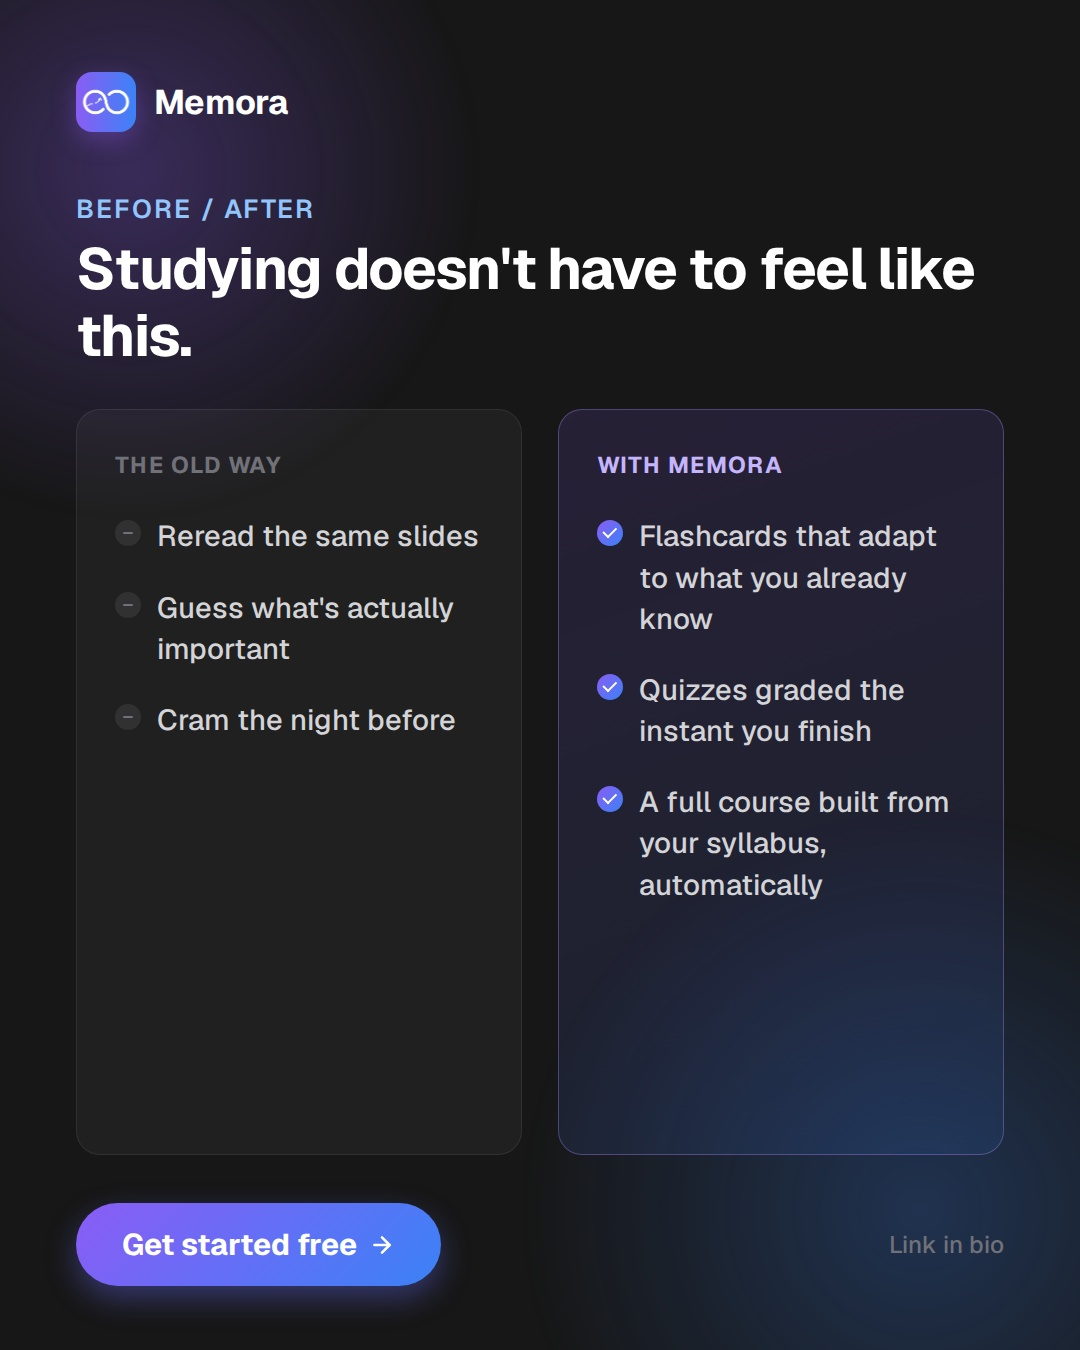
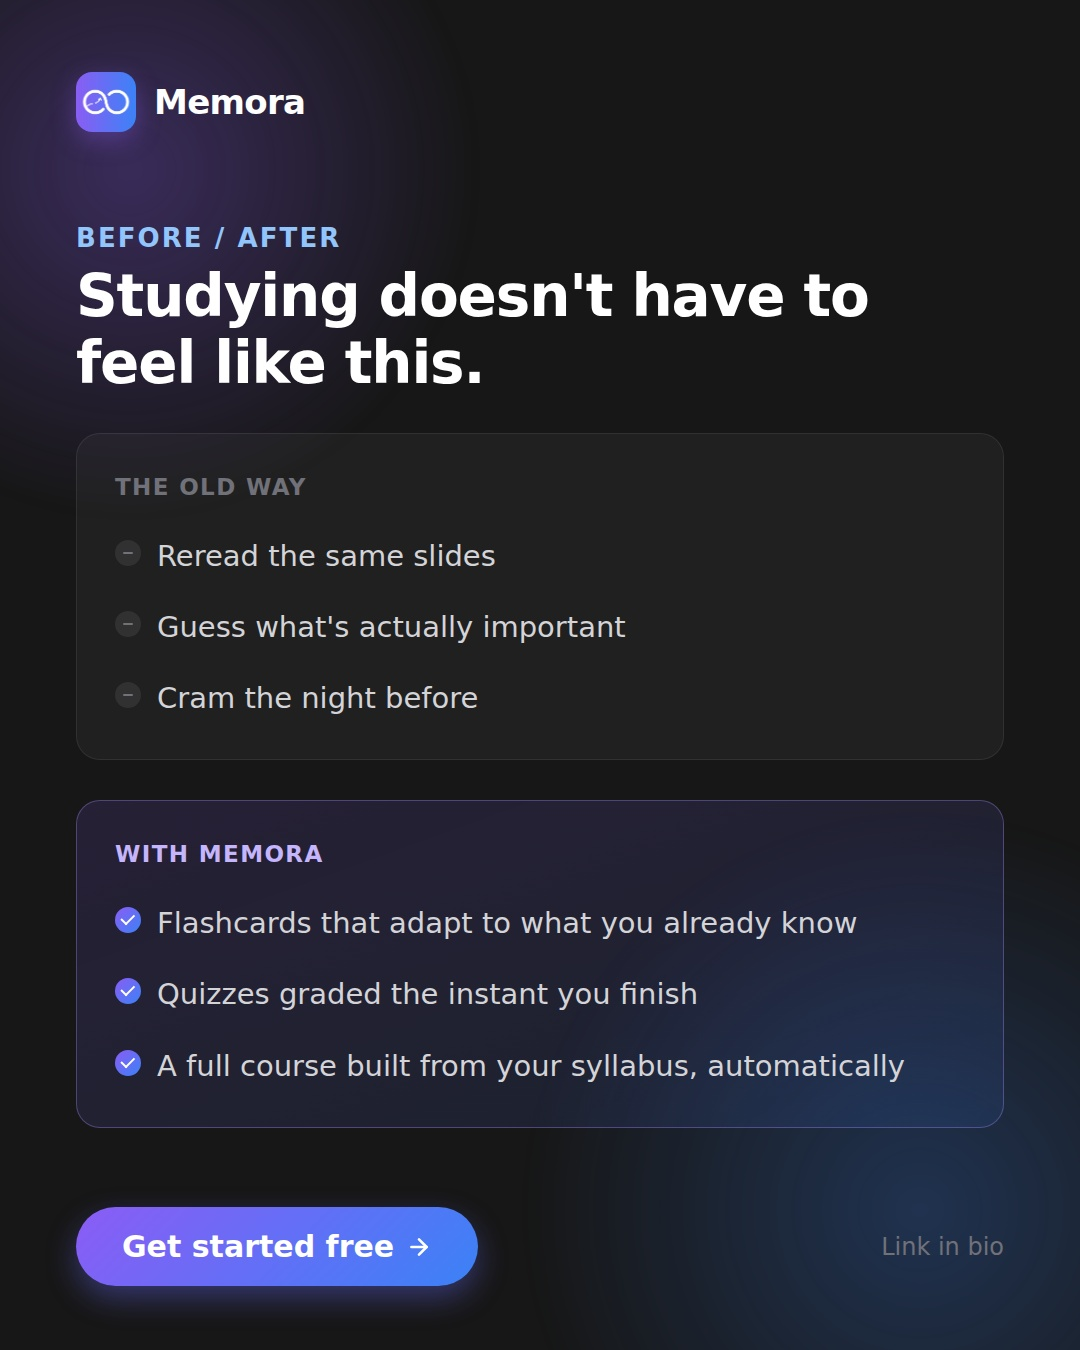
Update `single-image` generation samples and templates

diff --git a/pipeline/checks.py b/pipeline/checks.py
@@ -9,7 +9,7 @@ Two checks, both against history.py's "recent_all" list:
 **Flags, never auto-blocks**: a false positive that silently kills a good post is worse than one that arrives with a note on it. This script's exit code is always 0 on a successful run; the caller (the orchestrator) is expected to read the `flagged` field and route accordingly -- write it into the draft's `notes` column, not reject the post.
 
 Usage:
-    python3 checks.py <candidate_content.json> <shaped_history.json>
+    python3 checks.py <candidate_content.json> <shaped_history.json> [--layout <layout>]
 
 candidate_content.json needs at least "headline" and optionally "caption" (matching the format's content-example.json shape).
 
@@ -27,6 +27,19 @@ import re
 import sys
 
 SIMILARITY_THRESHOLD = 0.6
+
+# flow-outline only ever describes one feature (Agent), so its headline/
+# subhead necessarily converge on the same "turn your syllabus into a
+# course" framing post to post -- a much narrower vocabulary space than a
+# layout that rotates across features/topics. That pushes headline+caption
+# similarity structurally higher here even when the part that actually
+# varies (outline_items) is completely different. A higher bar keeps the
+# backstop from flagging every flow-outline post against the last one -- it
+# doesn't turn the check off, and an exact verbatim repeat (exact_hash_match
+# below) still gets caught at the same bar as everywhere else.
+LAYOUT_SIMILARITY_THRESHOLDS = {
+    "flow-outline": 0.8,
+}
 
 
 def normalize(text: str) -> str:
@@ -50,7 +63,8 @@ def jaccard_similarity(a: str, b: str) -> float:
     return len(intersection) / len(union)
 
 
-def run_checks(candidate: dict, recent_all: list) -> dict:
+def run_checks(candidate: dict, recent_all: list, layout: str | None = None) -> dict:
+    threshold = LAYOUT_SIMILARITY_THRESHOLDS.get(layout, SIMILARITY_THRESHOLD)
     headline = candidate.get("headline", "")
     caption = candidate.get("caption", "")
     candidate_text = f"{headline} {caption}".strip()
@@ -70,7 +84,7 @@ def run_checks(candidate: dict, recent_all: list) -> dict:
 
         past_text = f"{past_headline} {past_caption}".strip()
         score = jaccard_similarity(candidate_text, past_text)
-        if score >= SIMILARITY_THRESHOLD:
+        if score >= threshold:
             similarity_flags.append({"against_headline": past_headline, "score": round(score, 2)})
 
     flagged = exact_hash_match or bool(similarity_flags)
@@ -94,13 +108,23 @@ def run_checks(candidate: dict, recent_all: list) -> dict:
 
 
 if __name__ == "__main__":
-    if len(sys.argv) != 3:
-        print("Usage: python3 checks.py <candidate_content.json> <shaped_history.json>", file=sys.stderr)
+    args = sys.argv[1:]
+    layout = None
+    if "--layout" in args:
+        i = args.index("--layout")
+        if i + 1 >= len(args):
+            print("Usage: python3 checks.py <candidate_content.json> <shaped_history.json> [--layout <layout>]", file=sys.stderr)
+            sys.exit(1)
+        layout = args[i + 1]
+        del args[i : i + 2]
+
+    if len(args) != 2:
+        print("Usage: python3 checks.py <candidate_content.json> <shaped_history.json> [--layout <layout>]", file=sys.stderr)
         sys.exit(1)
 
-    with open(sys.argv[1]) as f:
+    with open(args[0]) as f:
         candidate = json.load(f)
-    with open(sys.argv[2]) as f:
+    with open(args[1]) as f:
         history = json.load(f)
 
-    print(json.dumps(run_checks(candidate, history.get("recent_all", [])), indent=2))
+    print(json.dumps(run_checks(candidate, history.get("recent_all", []), layout), indent=2))
